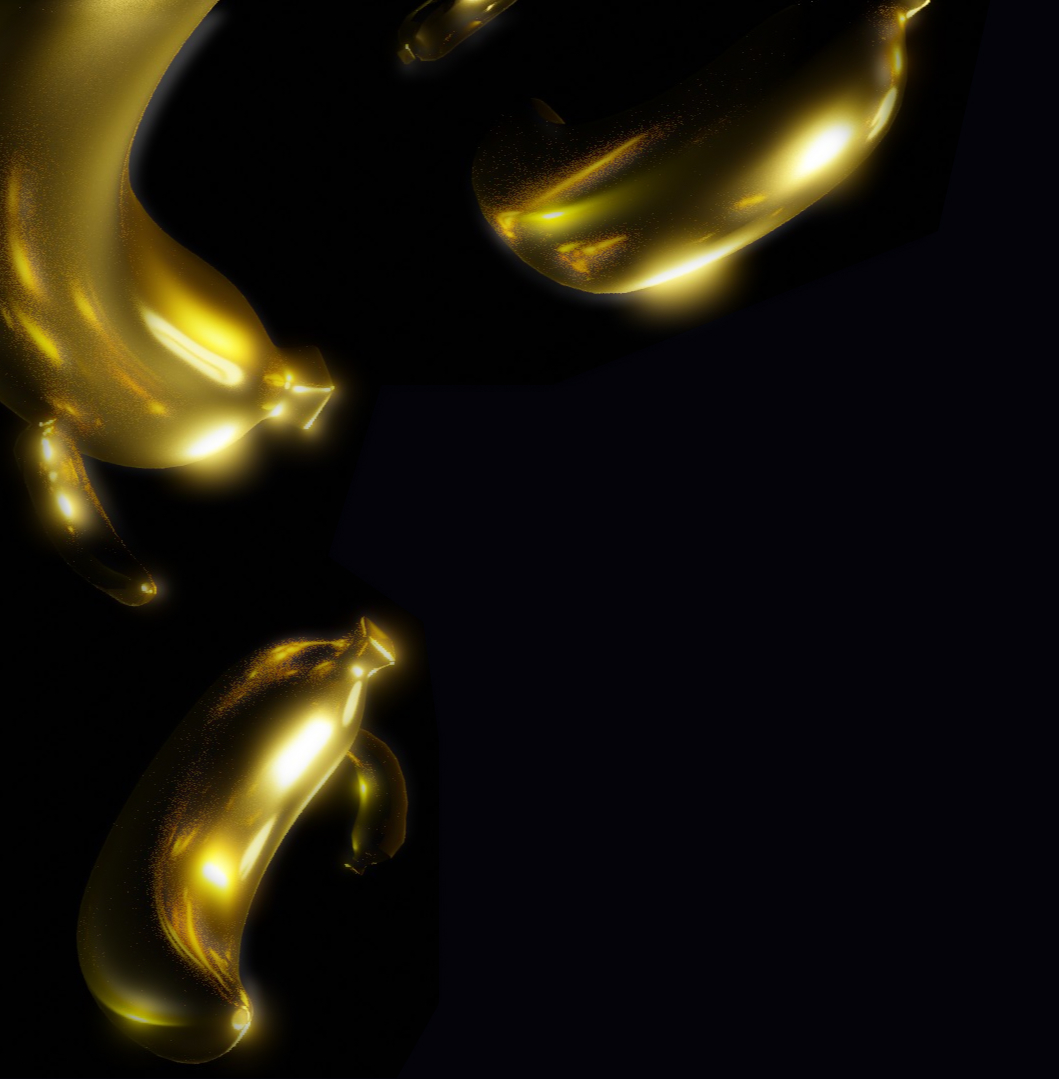
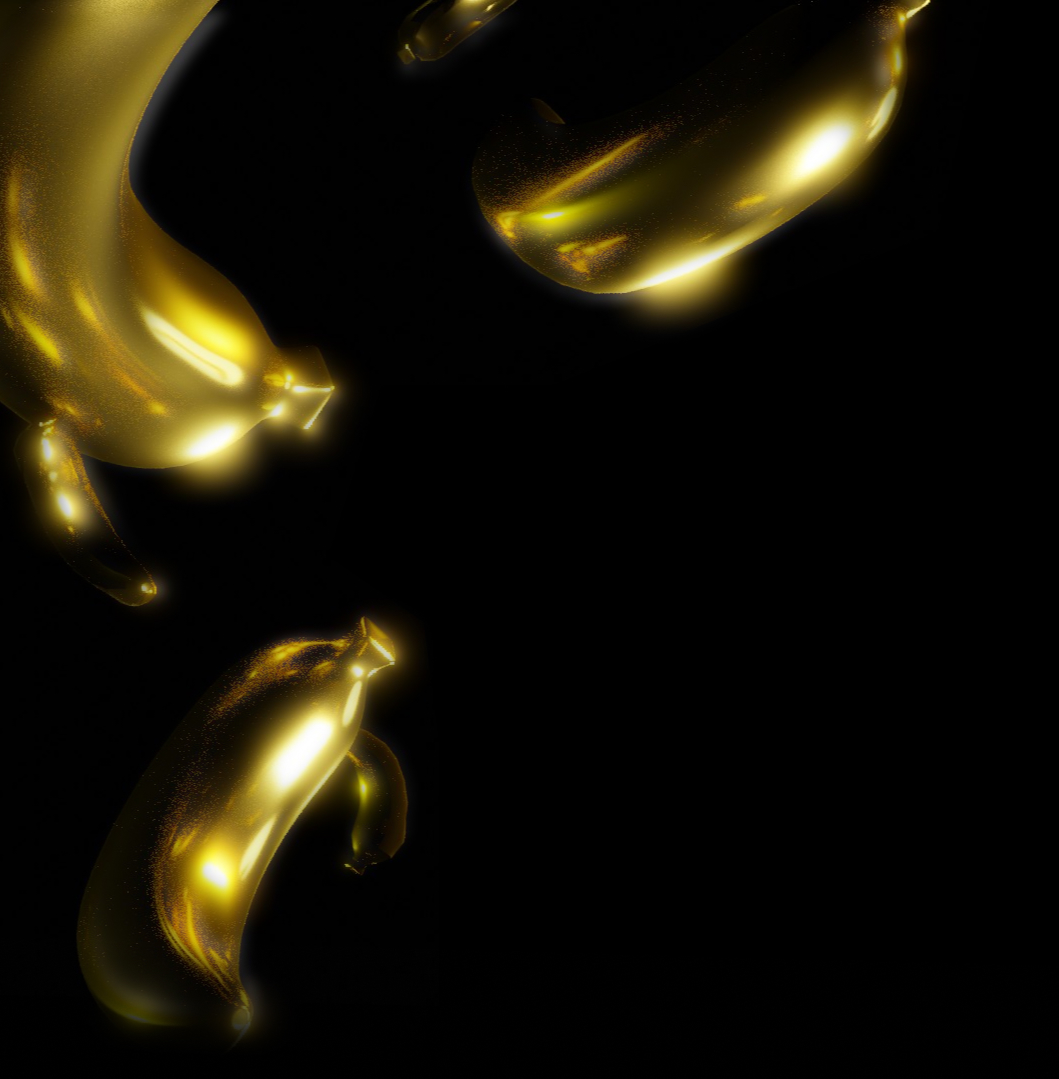
tweaks

Changed region(s): [[0.0935, 0.8869, 0.2493, 1.0]]

diff --git a/css/main-min.css b/css/main-min.css
@@ -1,1 +1,1 @@
-/*! HTML5 Boilerplate v8.0.0 | MIT License | https://html5boilerplate.com/ */html{color:#222;font-size:1em;line-height:1.4;background:#000;color:#fff;font-family:"Mulish", Helvetica, Roboto, san-serif;box-sizing:border-box;height:100vh}::-moz-selection{background:#b3d4fc;text-shadow:none}::selection{background:#b3d4fc;text-shadow:none}hr{display:block;height:1px;border:0;border-top:1px solid #ccc;margin:1em 0;padding:0}audio,canvas,iframe,img,svg,video{vertical-align:middle}fieldset{border:0;margin:0;padding:0}textarea{resize:vertical}.hidden,[hidden]{display:none !important}.sr-only{border:0;clip:rect(0, 0, 0, 0);height:1px;margin:-1px;overflow:hidden;padding:0;position:absolute;white-space:nowrap;width:1px}.sr-only.focusable:active,.sr-only.focusable:focus{clip:auto;height:auto;margin:0;overflow:visible;position:static;white-space:inherit;width:auto}.invisible{visibility:hidden}.clearfix::before,.clearfix::after{content:" ";display:table}.clearfix::after{clear:both}@media print{*,*::before,*::after{background:#fff !important;color:#000 !important;box-shadow:none !important;text-shadow:none !important}a,a:visited{text-decoration:underline}a[href]::after{content:" (" attr(href) ")"}abbr[title]::after{content:" (" attr(title) ")"}a[href^="#"]::after,a[href^="javascript:"]::after{content:""}pre{white-space:pre-wrap !important}pre,blockquote{border:1px solid #999;page-break-inside:avoid}thead{display:table-header-group}tr,img{page-break-inside:avoid}p,h2,h3{orphans:3;widows:3}h2,h3{page-break-after:avoid}}body{background:url("/img/bg.jpg") no-repeat,top,left;background-size:95%;font-size:28px;font-family:"Mulish", san-serif;text-align:center;height:100vh}h1,h2,h3,h4{font-family:"Dosis", Roboto, San-Serif}h2,h3,h4{font-weight:300}h1{font-family:Dosis;font-style:normal;font-weight:bold;font-size:2.8rem}h2,h3{margin:0}p{font-family:Mulish;font-size:1rem}#lend-borrow{text-align:center;display:flex;flex-direction:row;justify-content:center;width:100%}#lend-borrow div{margin:0rem 2.5rem;border-bottom:3px gray sold}header{display:flex;flex-direction:row;justify-content:space-between;padding:1rem}header a,header a:visited{font-size:1rem;color:white;border-radius:40px;padding:.25rem 2rem;border:white 1px solid;text-decoration:none;display:flex;flex-direction:column;justify-content:center;align-items:center;height:2.5rem}.hero{width:21.5rem;height:21.5rem;overflow:hidden;border-radius:37px;text-align:center;display:flex;align-items:center;justify-content:center;margin:0 auto 2rem;border:.5rem solid white}#main{margin-top:-2.5rem}#main .pitch{display:none}#main .pitch.active{display:inherit}.switch{cursor:pointer}#tilt:hover{box-shadow:0px 0px 30px rgba(0,0,0,0.6);cursor:pointer}
+/*! HTML5 Boilerplate v8.0.0 | MIT License | https://html5boilerplate.com/ */html{color:#222;font-size:1em;line-height:1.4;background:#000;color:#fff;font-family:"Mulish", Helvetica, Roboto, san-serif;box-sizing:border-box;height:100vh}::-moz-selection{background:#b3d4fc;text-shadow:none}::selection{background:#b3d4fc;text-shadow:none}hr{display:block;height:1px;border:0;border-top:1px solid #ccc;margin:1em 0;padding:0}audio,canvas,iframe,img,svg,video{vertical-align:middle}fieldset{border:0;margin:0;padding:0}textarea{resize:vertical}.hidden,[hidden]{display:none !important}.sr-only{border:0;clip:rect(0, 0, 0, 0);height:1px;margin:-1px;overflow:hidden;padding:0;position:absolute;white-space:nowrap;width:1px}.sr-only.focusable:active,.sr-only.focusable:focus{clip:auto;height:auto;margin:0;overflow:visible;position:static;white-space:inherit;width:auto}.invisible{visibility:hidden}.clearfix::before,.clearfix::after{content:" ";display:table}.clearfix::after{clear:both}@media print{*,*::before,*::after{background:#fff !important;color:#000 !important;box-shadow:none !important;text-shadow:none !important}a,a:visited{text-decoration:underline}a[href]::after{content:" (" attr(href) ")"}abbr[title]::after{content:" (" attr(title) ")"}a[href^="#"]::after,a[href^="javascript:"]::after{content:""}pre{white-space:pre-wrap !important}pre,blockquote{border:1px solid #999;page-break-inside:avoid}thead{display:table-header-group}tr,img{page-break-inside:avoid}p,h2,h3{orphans:3;widows:3}h2,h3{page-break-after:avoid}}body{background:url("/img/bg.jpg") no-repeat,top,left;background-size:800px;font-size:28px;font-family:"Mulish", san-serif;text-align:center;height:100vh}h1,h2,h3,h4{font-family:"Dosis", Roboto, San-Serif}h2,h3,h4{font-weight:300}h1{font-family:Dosis;font-style:normal;font-weight:bold;font-size:2.8rem}h2,h3{margin:0}p{font-family:Mulish;font-size:1rem}#lend-borrow{text-align:center;display:flex;flex-direction:row;justify-content:center;width:100%}#lend-borrow div{margin:0rem 2.5rem;border-bottom:3px gray sold}header{display:flex;flex-direction:row;justify-content:space-between;padding:1rem}header a,header a:visited{font-size:1rem;color:white;border-radius:40px;padding:.25rem 2rem;border:white 1px solid;text-decoration:none;display:flex;flex-direction:column;justify-content:center;align-items:center;height:2.5rem}.hero{width:21.5rem;height:21.5rem;overflow:hidden;border-radius:37px;text-align:center;display:flex;align-items:center;justify-content:center;margin:0 auto 2rem;border:.5rem solid white}#main{margin-top:-2.5rem}#main .pitch{display:none}#main .pitch.active{display:inherit}.switch{cursor:pointer}#tilt:hover{box-shadow:0px 0px 30px rgba(0,0,0,0.6);cursor:pointer}

diff --git a/css/main.css b/css/main.css
@@ -268,11 +268,11 @@ textarea {
 
 body {
   background: url("/img/bg.jpg") no-repeat, top, left;
-  background-size: 95%;
+  background-size: 800px;
   font-size: 28px;
   font-family: "Mulish", san-serif;
   text-align: center;
-  height: 100vh; 
+  height: 100vh;
 }
 
 h1, h2, h3, h4 { font-family: "Dosis", Roboto, San-Serif; }

diff --git a/index.html b/index.html
@@ -59,7 +59,7 @@
     </div>
     <div id="main">
       <div id="lenders" class="pitch active">
-        <h1>Offer On-Demand Liquidity</h1>
+        <h1>On-Demand Liquidity</h1>
 
         <div id="tilt" class="hero">
           <img src="img/605bnp.gif" />
